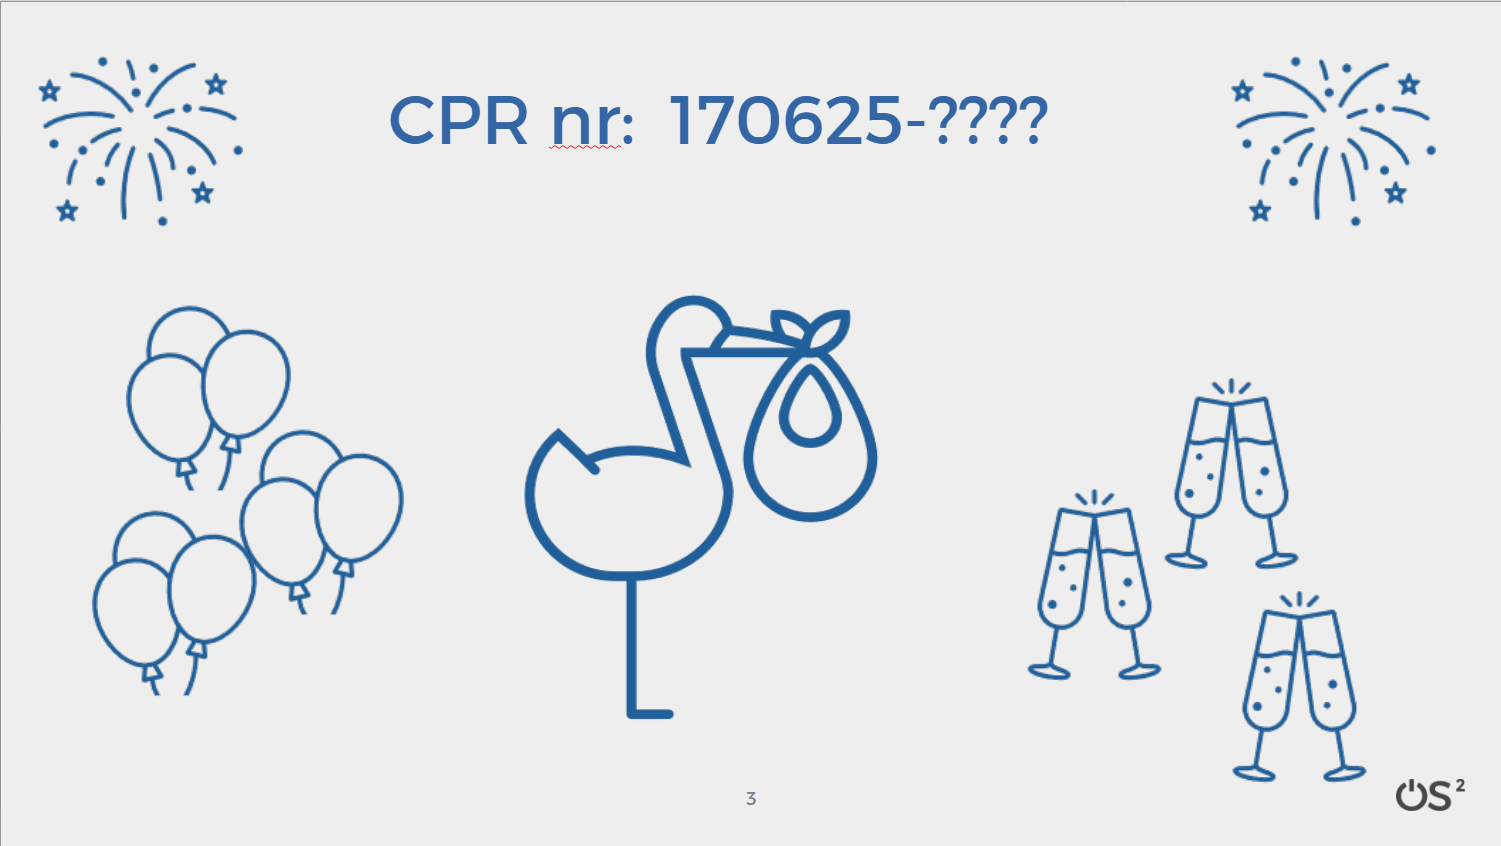
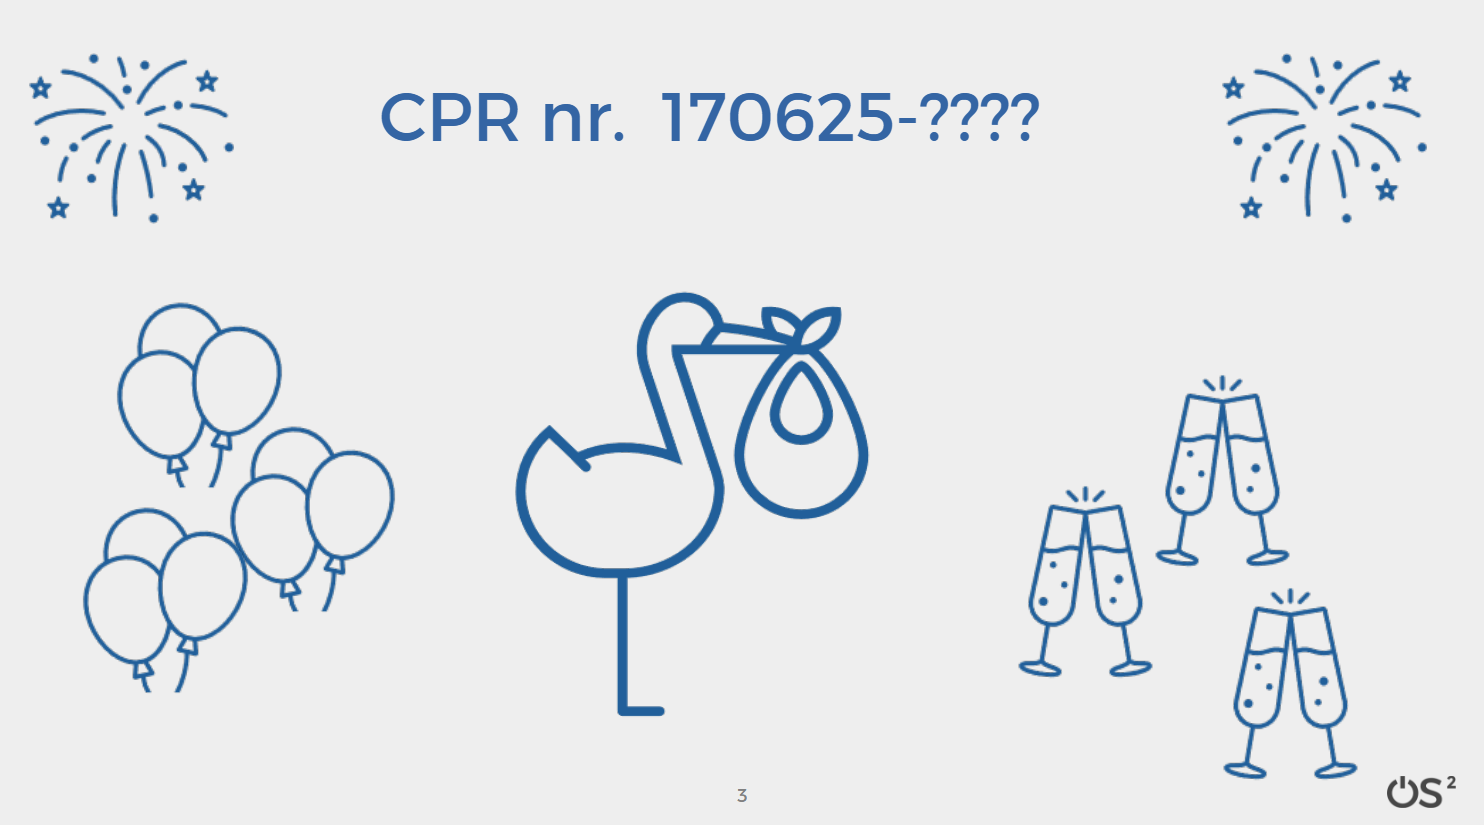
updated footer
Footer included

Pictures revised

menu item sus adm revised to ensure submenu order

diff --git a/docs/support/support.md b/docs/support/support.md
@@ -5,8 +5,9 @@ nav_order: 5
 has_children: false
 ---
 
-# Fejlfinding og support
-### Sådan tager du kntakt til supporten
+# **Fejlfinding og support**
+
+### Sådan får du kontakt med supporten
 - Supporfunktionen er åben hver fredag mellem 10 & 12
 - Spørgsmål til funktionalitet sendes til OS2samtale@os2.eu
 - Anmodning om personlig assistance stilles via OS2samtale@os2.eu
@@ -25,3 +26,8 @@ Brug hinanden på samtale chat til at dele viden tips og tricks – eller til at
 * Indledende planlægning af delelementet OS2adgang: [https://github.com/OS2sandbox/os2adgang-planning/issues](https://github.com/OS2sandbox/os2adgang-planning/issues)
 
 Du er også velkommen til at kontakte os på os2samtale@os2.eu eller https://os2samtale.os2.eu/#narrow/channel/8-OS2Samtale
+
+
+***
+
+*Har du rettelser eller forslag til indholdet på siden, kan du bidrage direkte via GitHub [https://github.com/OS2sandbox/sandbox-samtale-documentation/issues](https://github.com/OS2sandbox/sandbox-samtale-documentation/issues)*

diff --git a/docs/slutbruger/opstart/på_skrivebordet.md b/docs/slutbruger/opstart/på_skrivebordet.md
@@ -1,11 +1,11 @@
 ---
-title: "Sådan får du zulip ned på dit skrivebord"
+title: "Sådan får du OS2samtale ned på dit skrivebord"
 layout: default
 parent: Sådan bruger du OS2samtale  
 nav_order: 3
 ---
 
-# **Sådan får du zulip ned på dit skrivebord**
+# **Sådan får du OS2samtale ned på dit skrivebord**
 
 - Download Zulip appen til din pc/ mac /linux platform
   - Download til Windows: https://zulip.com/apps/
@@ -15,3 +15,7 @@ nav_order: 3
 - Indtast brugernavn og kodeord
 
 TIPS: Du finder Zulip's installations guide her: https://zulip.com/help/desktop-app-install-guide
+
+***
+
+*Har du rettelser eller forslag til indholdet på siden, kan du bidrage direkte via GitHub [https://github.com/OS2sandbox/sandbox-samtale-documentation/issues](https://github.com/OS2sandbox/sandbox-samtale-documentation/issues)*

diff --git a/docs/ord_og_begreber/sprogregler.md b/docs/ord_og_begreber/sprogregler.md
@@ -13,3 +13,8 @@ Sprogreglerne i projektet er som flg:
 * **Brugervejledninger, tips & tricks, projektplaner og strategiske planer** vil blive udarbejdet og formidlet på **dansk**.
 * **Tekniske Indberetninger** (ISSUES) der relaterer sig til design, udvikling, vedligeholdelse og teknisk support håndteres på **engelsk**.
 * **Tekniskdokumentation** vedrørende arkitektur, design, udvikling, vedligeholdelse og teknisk support udarbejdes og formidles på **engelsk**.
+
+
+***
+
+*Har du rettelser eller forslag til indholdet på siden, kan du bidrage direkte via GitHub [https://github.com/OS2sandbox/sandbox-samtale-documentation/issues](https://github.com/OS2sandbox/sandbox-samtale-documentation/issues)*

diff --git a/docs/projekt/projektintroduktion.md b/docs/projekt/projektintroduktion.md
@@ -32,3 +32,7 @@ Projektet har indtil vider været drevet ud fra et princip om frivillighed og eg
 Projektet står i Juli 2025  nu over for udfordringerne med at etablere de administrative rutiner, definere forvaltnings organisationen, samt at fastslå ejerskab og betalingsmodel  
 
 Den første del af løsningen er er pr 1 Juli 2025 anvendelse, men der er endnu ikke blevet etableret et solidt administrativt og operationel samarbejde med KOMBIT. 
+
+***
+
+*Har du rettelser eller forslag til indholdet på siden, kan du bidrage direkte via GitHub [https://github.com/OS2sandbox/sandbox-samtale-documentation/issues](https://github.com/OS2sandbox/sandbox-samtale-documentation/issues)*

diff --git a/docs/nyheder/nyheder.md b/docs/nyheder/nyheder.md
@@ -8,3 +8,15 @@ has_children: true
 
 Herunder finder du en oversigt over nyheder og opdateringer 
 
+Hvis du har en nyhed du gerne vil have publiseret på siden kan du enten sende en mail til os2samtale@os2.eu eller bidrage direkte via Github  [https://github.com/OS2sandbox/sandbox-samtale-documentation/issues](https://github.com/OS2sandbox/sandbox-samtale-documentation/issues)
+
+
+***
+
+*Har du rettelser eller forslag til indholdet på siden, kan du bidrage direkte via GitHub [https://github.com/OS2sandbox/sandbox-samtale-documentation/issues](https://github.com/OS2sandbox/sandbox-samtale-documentation/issues)*
+
+
+
+
+
+

diff --git a/docs/projekt/Projekvision.md b/docs/projekt/Projekvision.md
@@ -20,3 +20,6 @@ OS2 Samtale projektet blev igangsat oktober 2023 ud fra en ønske om at etablere
 - At etablere en struktureret kommunikationsplatform der er understøtter samarbejde på tværs af medlemsorganisationer
 - At gøre vidensdeling nem og overskuelig og skaber et smidigt og videns-drevet samarbejde på tværs af medlemskredsen.
 
+***
+
+*Har du rettelser eller forslag til indholdet på siden, kan du bidrage direkte via GitHub [https://github.com/OS2sandbox/sandbox-samtale-documentation/issues](https://github.com/OS2sandbox/sandbox-samtale-documentation/issues)*

diff --git a/docs/slutbruger/opstart/oprettelse.md b/docs/slutbruger/opstart/oprettelse.md
@@ -28,4 +28,8 @@ Når du har sendt en anmodning om at blive oprettet som bruger af OS2samtale vil
 NB! Administratorer har ikke mulighed for at se dit kodeord igen efter at det er sendt til dig.
 
 Hvis du ønsker det kan du herefter gå ind og ændre dit kodeord i Authentic - se "skift kodeord" for detaljer.
+
+***
+
+*Har du rettelser eller forslag til indholdet på siden, kan du bidrage direkte via GitHub [https://github.com/OS2sandbox/sandbox-samtale-documentation/issues](https://github.com/OS2sandbox/sandbox-samtale-documentation/issues)*
   

diff --git a/docs/systemadministrator/sysadm.md b/docs/systemadministrator/sysadm.md
@@ -15,3 +15,7 @@ Som systemadministrator har du ansvaret for:
 - Moderation af fælleskanaler
 
 Det er administratorernes ansvar at sikre at brigeroprettelse, tildeling af rettigneder etablering af kanaler og konfiguration af systemet, sker i henold til dokumenterede retningslinier. 
+
+***
+
+*Har du rettelser eller forslag til indholdet på siden, kan du bidrage direkte via GitHub [https://github.com/OS2sandbox/sandbox-samtale-documentation/issues](https://github.com/OS2sandbox/sandbox-samtale-documentation/issues)*

diff --git a/docs/nyheder/Nyhed_1.md b/docs/nyheder/Nyhed_1.md
@@ -22,3 +22,5 @@ Hvilket betyder at de får mulighed for at være med til at sætte kursen for hv
 - Administrative rutiner
 
 Det var planen at kommunale brugere skulle anvende den fælleskommunale adgangsstyring allerede ved produktlancieringe, men dette er desværre ikke muligt da der udestår et par administrative godkendelser, herunder gennemførelse af et NIS2 Audit. Vi forventer at FKA integrationen kommer i produktion i 4 kvartal af 2025. 
+
+![selebration](/assets/nyhed1.png)

diff --git a/docs/slutbruger/brugervejldning.md b/docs/slutbruger/brugervejldning.md
@@ -38,3 +38,7 @@ has_children: true
 [aktivering]: /docs/slutbruger/opstart/aktivering.md
 [kodeord]: /docs/slutbruger/konfiguration/ændre_kodeord.md
 [skrivebord]: /docs/slutbruger/opstart/på_skrivebordet.md
+
+***
+
+*Har du rettelser eller forslag til indholdet på siden, kan du bidrage direkte via GitHub [https://github.com/OS2sandbox/sandbox-samtale-documentation/issues](https://github.com/OS2sandbox/sandbox-samtale-documentation/issues)*

diff --git a/docs/Produkt/about.md b/docs/Produkt/about.md
@@ -26,3 +26,6 @@ For produkt specifikke og tekniske detaljer henvises der til Zulips formelle dok
 - Du finder Zulip's installations guide her: https://zulip.com/help/desktop-app-install-guide
   
 
+***
+
+*Har du rettelser eller forslag til indholdet på siden, kan du bidrage direkte via GitHub [https://github.com/OS2sandbox/sandbox-samtale-documentation/issues](https://github.com/OS2sandbox/sandbox-samtale-documentation/issues)*

diff --git a/docs/slutbruger/konfiguration/ændre_kodeord.md b/docs/slutbruger/konfiguration/ændre_kodeord.md
@@ -34,3 +34,7 @@ Du kan ændre dit kodeord i Authentic på følgende måde
 [settings]: /assets/authentic_settings.png
 [changepw1]: /assets/skift_PW.png/
 [changePW2]: /assets/Change_PW2.png/
+
+***
+
+*Har du rettelser eller forslag til indholdet på siden, kan du bidrage direkte via GitHub [https://github.com/OS2sandbox/sandbox-samtale-documentation/issues](https://github.com/OS2sandbox/sandbox-samtale-documentation/issues)*
